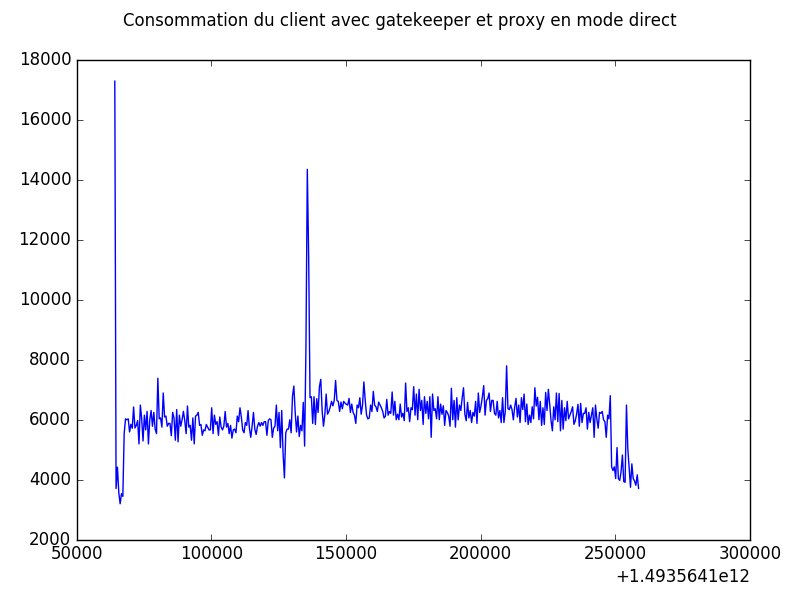
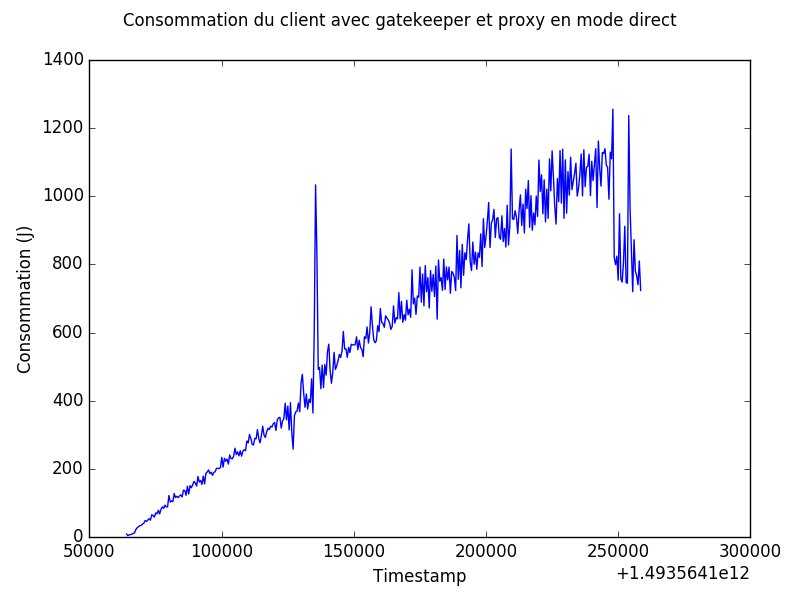
Update plot for Joules unit

Changed region(s): [[0.0, 0.09, 0.9688, 0.99]]

diff --git a/TP3/plots/plot_powerapi.py b/TP3/plots/plot_powerapi.py
@@ -12,17 +12,22 @@ def main():
 
     with open(filename, 'r') as f:
         lines = f.readlines()
+        seconds = 0.5
         for line in lines:
             line = line.strip('\n')
             id, timestamp, value = line.split(';')
+            value = float(value) * 0.001 * seconds # calcul en joules : W * s avec W = 0.001 * mW
             values.append(value)
             timestamps.append(timestamp)
+            seconds += 0.5
 
     fig = pyplot.figure()
     fig.suptitle(plotname)
 
     ax = fig.add_subplot(111) # subplot(nbcol, nbligne, numfigure)
     ax.plot(timestamps, values)
+    ax.set_xlabel('Timestamp')
+    ax.set_ylabel('Consommation (J)')
     pyplot.tight_layout()
     pyplot.subplots_adjust(top=0.9)
 
